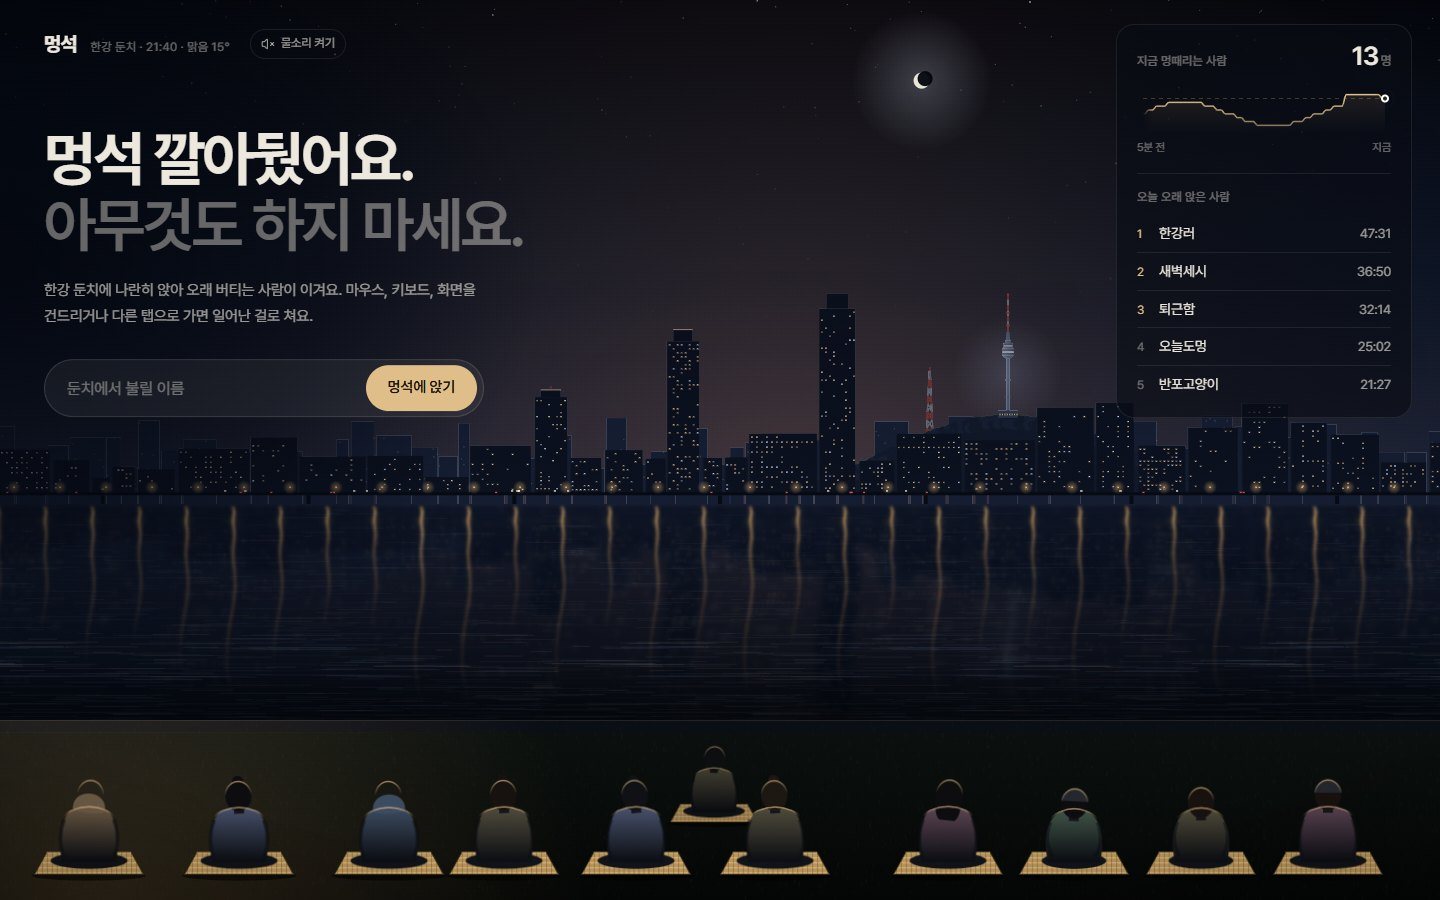
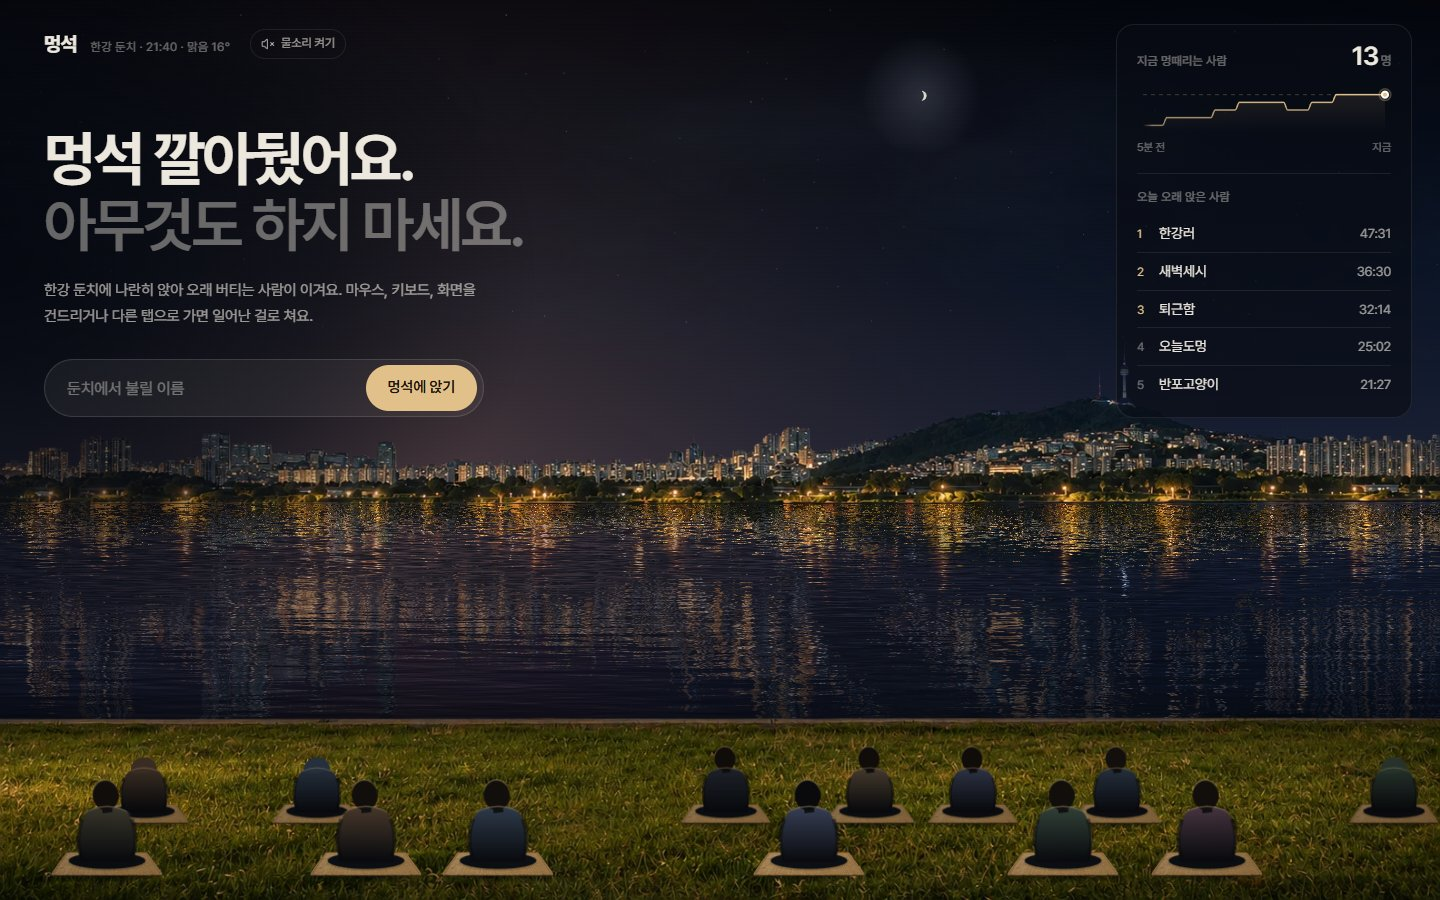
해가 문구·순위 패널과 겹치지 않게: 해 뜰 무렵·질 무렵 지평선 근처에서만 보이게, README 화면 이미지와 og.png 다시 찍음
- 북쪽(강북·남산)을 보는 구도라 한낮의 해는 등 뒤에 있다. 지평선 근처에서만 해를 그리고 높이 오르기 전에 사라지게 함
- 하늘 빛 번짐과 강물에 비치는 햇빛 방향은 그대로
- 새 실사풍 배경으로 밤·노을·비·눈·앉은 화면·휴대폰·공유 미리보기를 다시 찍음 (순위·인원은 예시 값)

diff --git a/web/src/lib/photo-scene.ts b/web/src/lib/photo-scene.ts
@@ -86,12 +86,15 @@ export function composePhoto(w: PhotoWorld, p: Palette, images: Scenery) {
     sx.fillRect(rnd() * W, rnd() * y0 * .66, .5 + rnd() * .6, .7)
   }
   const sun = p.sun, veil = 1 - p.cloud
-  if (sun && p.night < .85 && p.cloud < .8) {
-    const x = (1 - sun.x) * W, y = y0 - (.06 + sun.alt * .62) * y0
+  // 북쪽을 보는 구도라 한낮의 해는 등 뒤에 있다. 해 뜰 무렵(오른쪽)·질 무렵(왼쪽) 지평선 근처에서만 보이고,
+  // 높이 오르기 전에 사라져 문구·순위 패널과 겹치지 않는다
+  const seen = sun ? Math.max(0, Math.min(1, (.32 - sun.alt) / .1)) * veil : 0
+  if (sun && seen > 0 && p.night < .85 && p.cloud < .8) {
+    const x = (1 - sun.x) * W, y = y0 - (.03 + sun.alt * .6) * y0
     const bloom = sx.createRadialGradient(x, y, 2, x, y, 110)
-    bloom.addColorStop(0, `rgba(255,227,175,${veil * .55})`); bloom.addColorStop(1, 'rgba(255,211,146,0)')
+    bloom.addColorStop(0, `rgba(255,227,175,${seen * .55})`); bloom.addColorStop(1, 'rgba(255,211,146,0)')
     sx.fillStyle = bloom; sx.fillRect(x - 110, y - 110, 220, 220)
-    sx.globalAlpha = veil; sx.fillStyle = sun.alt < .15 ? '#ffd1a0' : '#fff6e1'
+    sx.globalAlpha = seen; sx.fillStyle = sun.alt < .15 ? '#ffd1a0' : '#fff6e1'
     sx.beginPath(); sx.arc(x, y, 7, 0, Math.PI * 2); sx.fill(); sx.globalAlpha = 1
   }
   if (p.night > .5 && p.cloud < .7) {
